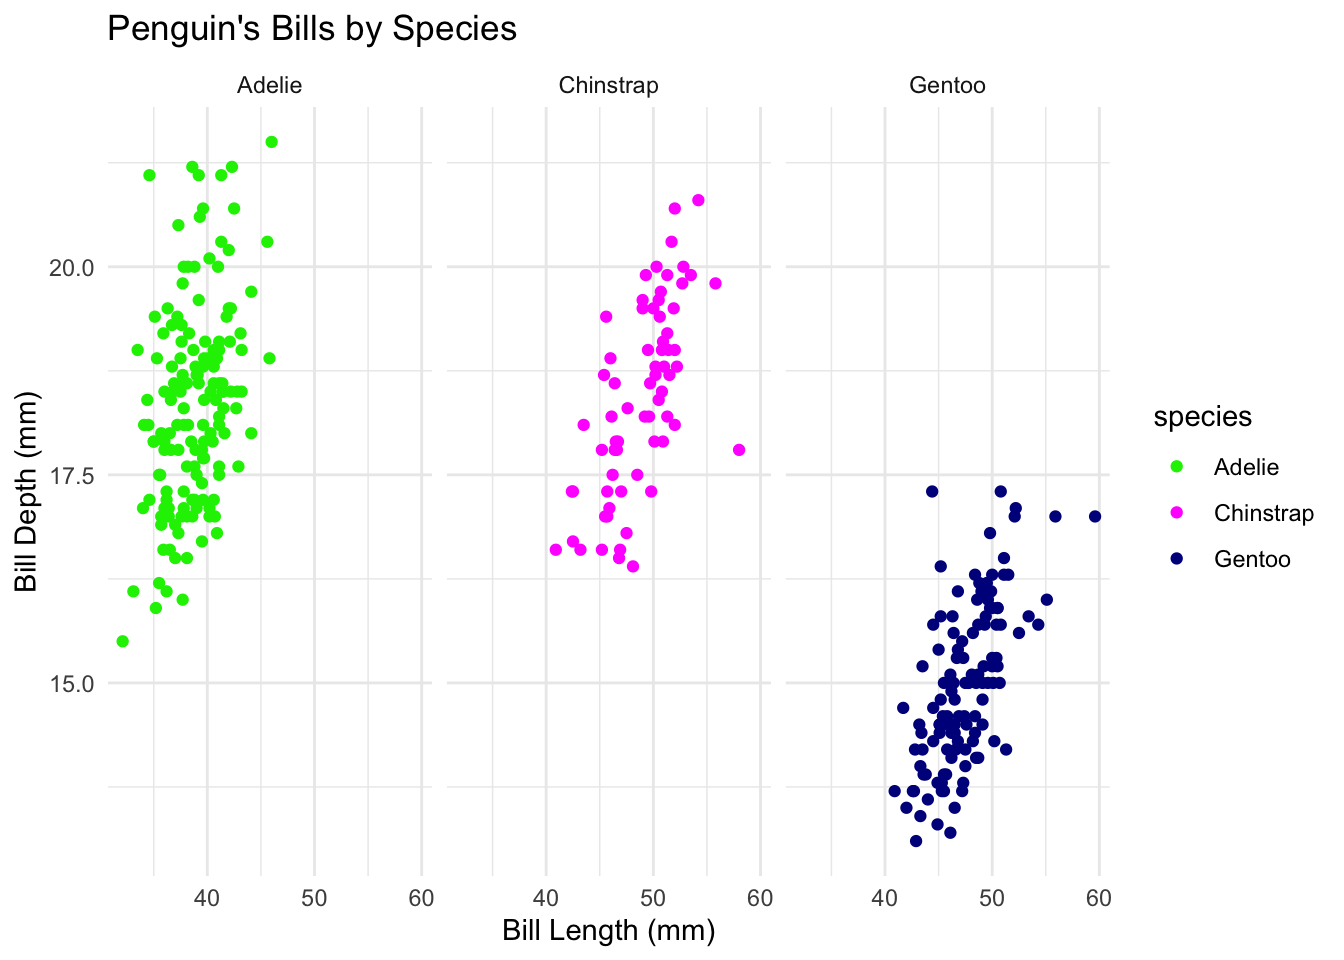
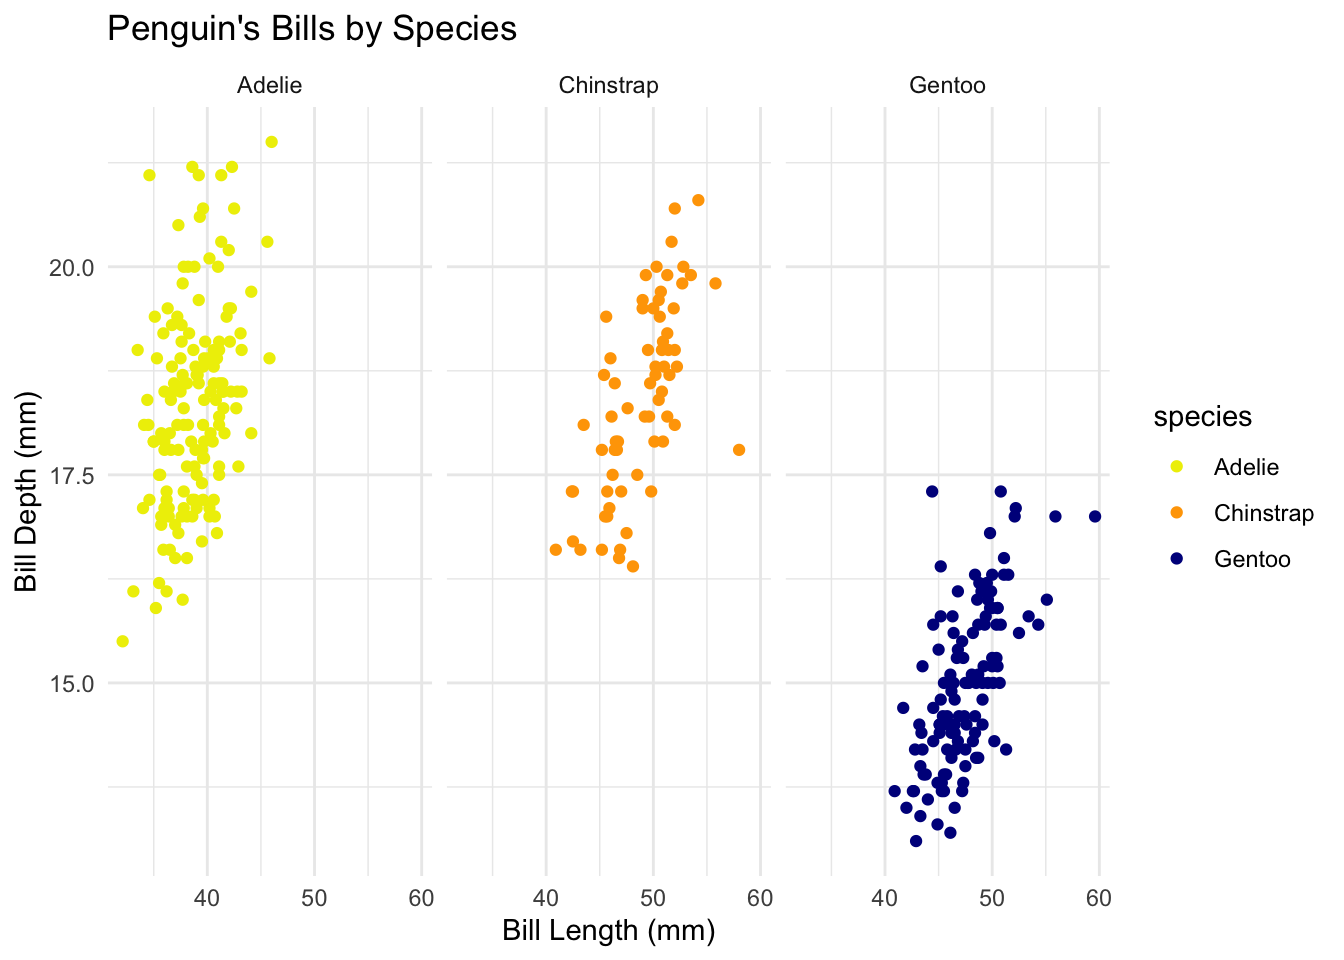
resolve conflict (please)

diff --git a/eds212-day2-activities.html b/eds212-day2-activities.html
@@ -206,7 +206,7 @@ The following objects are masked from 'package:datasets':
 <div class="sourceCode cell-code" id="cb11"><pre class="sourceCode r code-with-copy"><code class="sourceCode r"><span id="cb11-1"><a href="#cb11-1" aria-hidden="true" tabindex="-1"></a><span class="co"># create plot</span></span>
 <span id="cb11-2"><a href="#cb11-2" aria-hidden="true" tabindex="-1"></a><span class="fu">ggplot</span>(<span class="at">data =</span> penguins, <span class="fu">aes</span>(<span class="at">x =</span>  bill_length_mm, <span class="at">y =</span> bill_depth_mm)) <span class="sc">+</span> </span>
 <span id="cb11-3"><a href="#cb11-3" aria-hidden="true" tabindex="-1"></a>  <span class="fu">geom_point</span>(<span class="fu">aes</span>(<span class="at">color =</span> species)) <span class="sc">+</span> </span>
-<span id="cb11-4"><a href="#cb11-4" aria-hidden="true" tabindex="-1"></a>  <span class="fu">scale_color_manual</span>(<span class="at">values =</span> <span class="fu">c</span>(<span class="st">"green2"</span>, <span class="st">"magenta"</span>,<span class="st">"darkblue"</span>)) <span class="sc">+</span></span>
+<span id="cb11-4"><a href="#cb11-4" aria-hidden="true" tabindex="-1"></a>  <span class="fu">scale_color_manual</span>(<span class="at">values =</span> <span class="fu">c</span>(<span class="st">"yellow2"</span>, <span class="st">"orange"</span>,<span class="st">"darkblue"</span>)) <span class="sc">+</span></span>
 <span id="cb11-5"><a href="#cb11-5" aria-hidden="true" tabindex="-1"></a>  <span class="fu">labs</span>(<span class="at">x =</span> <span class="st">"Bill Length (mm)"</span>,</span>
 <span id="cb11-6"><a href="#cb11-6" aria-hidden="true" tabindex="-1"></a>       <span class="at">y =</span> <span class="st">"Bill Depth (mm)"</span>,</span>
 <span id="cb11-7"><a href="#cb11-7" aria-hidden="true" tabindex="-1"></a>       <span class="at">title =</span> <span class="st">"Penguin's Bills by Species"</span>) <span class="sc">+</span></span>
